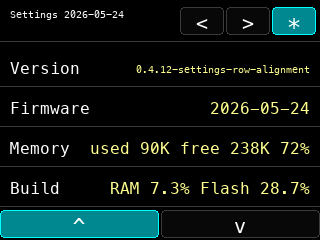
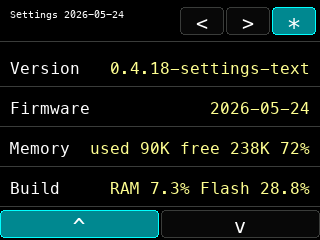
Enlarge landscape Settings fallback text 20260524-140900-EDT

Changed region(s): [[0.3438, 0.2625, 0.9688, 0.3208], [0.9062, 0.7583, 0.9375, 0.8167]]

diff --git a/tools/check_app_shell.py b/tools/check_app_shell.py
@@ -32,6 +32,13 @@ missing = [token for token in required_tokens if token not in source]
 if missing:
     raise SystemExit("Missing app shell tokens: " + ", ".join(missing))
 
+version_marker = '#define APP_VERSION "'
+version_start = source.index(version_marker) + len(version_marker)
+version_end = source.index('"', version_start)
+app_version = source[version_start:version_end]
+if len(app_version) > 25:
+    raise SystemExit("APP_VERSION is too wide for landscape Settings size-2 text")
+
 header_start = source.index("void drawHeader() {")
 header_end = source.index("void drawAppNavControls()", header_start)
 header_body = source[header_start:header_end]
@@ -61,6 +68,14 @@ if 'drawSettingsButton(settingsRotateX, rowY + 6, 86, "", false);' not in settin
     raise SystemExit("Settings rotation control should be icon-only")
 if '"ROT"' in settings_mock:
     raise SystemExit("Settings mock still renders ROT text instead of the rotation icon")
+if "bool settingsValueNeedsCompactText" not in source:
+    raise SystemExit("Settings value fit check should be shared before choosing tiny text")
+if "if (!portraitLayout && settingsValueNeedsCompactText(label, value))" not in source:
+    raise SystemExit("Landscape Settings rows should avoid tiny value text by using two-line text")
+if "return portraitLayout ? 1 : SETTINGS_TEXT_SIZE;" not in source:
+    raise SystemExit("The smallest Settings value text should be limited to vertical display rotation")
+if "value_w > width - 28 - label_w and width >= 300" not in settings_mock:
+    raise SystemExit("Settings mock should keep landscape fallback text larger")
 
 read_touch_start = source.index("void readTouchControls() {")
 read_touch_end = source.index("void mapTouchPoint", read_touch_start)

diff --git a/tools/render_settings_mock.py b/tools/render_settings_mock.py
@@ -76,10 +76,14 @@ def draw_row(draw, width, y, label, value, control=False):
         draw.text((10, y + 3), label, font=FONT_SETTINGS, fill=COLOR_TEXT)
         draw.text((10, y + 21), value, font=FONT_SETTINGS, fill=COLOR_SIGNAL_YELLOW)
     else:
-        draw.text((10, y + 12), label, font=FONT_SETTINGS, fill=COLOR_TEXT)
         label_w = draw.textbbox((0, 0), label, font=FONT_SETTINGS)[2]
         value_font = FONT_SETTINGS
         value_w = draw.textbbox((0, 0), value, font=value_font)[2]
+        if value_w > width - 28 - label_w and width >= 300:
+            draw.text((10, y + 3), label, font=FONT_SETTINGS, fill=COLOR_TEXT)
+            draw.text((10, y + 21), value, font=FONT_SETTINGS, fill=COLOR_SIGNAL_YELLOW)
+            return COLOR_BG
+        draw.text((10, y + 12), label, font=FONT_SETTINGS, fill=COLOR_TEXT)
         if value_w > width - 28 - label_w:
             value_font = FONT_1
             value_w = draw.textbbox((0, 0), value, font=value_font)[2]
@@ -123,10 +127,10 @@ def render(width, height, scroll_y, filename):
         ("LED Control", "beat pulse"),
         ("Color", "tap"),
         ("About", "PulseSensor CYD"),
-        ("Version", "0.4.12-settings-row-alignment"),
+        ("Version", "0.4.18-settings-text"),
         ("Firmware", "2026-05-24"),
         ("Memory", "used 90K free 238K 72%"),
-        ("Build", "RAM 7.3% Flash 28.7%"),
+        ("Build", "RAM 7.3% Flash 28.8%"),
     ]
 
     for index, (label, value) in enumerate(rows):

diff --git a/tools/render_monochrome_mock.py b/tools/render_monochrome_mock.py
@@ -227,10 +227,14 @@ def draw_row(draw, width, y, index, label, value):
         draw.text((10, y + 3), label, font=FONT_SETTINGS, fill=ink)
         draw.text((10, y + 21), value, font=FONT_SETTINGS, fill=ink)
     else:
-        draw.text((10, y + 12), label, font=FONT_SETTINGS, fill=ink)
         label_w = text_size(draw, label, FONT_SETTINGS)[0]
         value_font = FONT_SETTINGS
         value_w = text_size(draw, value, value_font)[0]
+        if value_w > width - 28 - label_w and width >= 300:
+            draw.text((10, y + 3), label, font=FONT_SETTINGS, fill=ink)
+            draw.text((10, y + 21), value, font=FONT_SETTINGS, fill=ink)
+            return bg
+        draw.text((10, y + 12), label, font=FONT_SETTINGS, fill=ink)
         if value_w > width - 28 - label_w:
             value_font = FONT_1
             value_w = text_size(draw, value, value_font)[0]
@@ -294,10 +298,10 @@ def render_settings(width, height, scroll_y, filename, mode_variant):
         ("LED Control", "beat pulse"),
         ("Color", "tap"),
         ("About", "PulseSensor CYD"),
-        ("Version", "0.4.12-settings-row-alignment"),
+        ("Version", "0.4.18-settings-text"),
         ("Firmware", "2026-05-24"),
         ("Memory", "used 90K free 238K 72%"),
-        ("Build", "RAM 7.3% Flash 28.7%"),
+        ("Build", "RAM 7.3% Flash 28.8%"),
     ]
 
     for index, (label, value) in enumerate(rows):

diff --git a/README.md b/README.md
@@ -50,7 +50,7 @@ This is the current good development pause point for the app shell branch:
 
 ```text
 Branch:   codex/app4-pin-scanner-perf-safe-20260524
-Firmware: 0.4.17-lock-hold-grace
+Firmware: 0.4.18-settings-text
 ```
 
 - Added a compact app shell around the Pulse dashboard: the screen order is Pulse dashboard, Settings, App 4 `Pin Scanner`, `Your App Here`, then `Origin Story` last.
@@ -60,6 +60,7 @@ Firmware: 0.4.17-lock-hold-grace
 - Changed the compact `SIG GPIO35` bars into a 12-step acquisition ladder, so users get more gradual feedback while finding a usable signal before BPM/IBI are trusted. The acquisition harmony now has an 8-note rising palette.
 - Matched the live waveform line color to the `SIG GPIO35` panel state color, so the graph and SIG box both show yellow while acquiring and change together after lock.
 - Added balanced lock-retention grace: acquisition still needs four consecutive qualified beats, but once locked the dashboard tolerates brief movement/noise blips before clearing BPM/IBI.
+- Made long Settings values easier to read in horizontal display rotation by keeping them at the normal Settings text size on a second line; the tiny fallback remains available only for vertical rotation.
 - Added Settings-only controls for Volume, icon-only Rotation, Display, WiFi/Bluetooth placeholders, LED Control, LED swatches, About, Version, Firmware date, runtime memory used/free, and build memory.
 - Added four display modes under Settings `Display`: `M DARK`, `M LIGHT`, `C DARK`, and `C LIGHT`.
 - Bumped Settings row text back up one size. Plain data rows keep the label left-justified and the value right-justified, while rows with right-side controls keep a second value line only to avoid overlap. The Memory row shows used heap plus free heap by size and percentage, and the Build row shows PlatformIO RAM/Flash usage.

diff --git a/CHANGELOG.md b/CHANGELOG.md
@@ -1,6 +1,7 @@
 # CYD App Launcher — Student Version — Changelog
 
 ## Unreleased
+- 2026-05-24 Settings landscape small-text pass: kept the tiny Settings value fallback only for vertical/portrait display rotation, and changed horizontal Settings rows that would have shrunk to tiny text into larger two-line label/value rows; firmware version is `0.4.18-settings-text`.
 - 2026-05-24 lock-retention grace pass: added rollback branch/tag `backup/pre-lock-hold-grace-20260524`, kept strict four-qualified-beat acquisition and existing beat qualification thresholds, but made already-locked signal state tolerate up to two unqualified beat events within a 2200 ms grace window before dropping lock; expanded serial telemetry with live range, clipping score, qualified/unqualified streaks, and drop reason for long-run hardware sanity checks; firmware version is `0.4.17-lock-hold-grace`.
 - 2026-05-24 matched waveform/SIG color pass: changed the live waveform to use the same acquisition/lock color function as the `SIG GPIO35` panel, so the graph line is yellow while acquiring and switches to the same locked color as the SIG box after signal lock; added a guard check to keep future UI work from reintroducing a separate waveform acquisition palette; firmware version is `0.4.16-matched-sig-wave`.
 - 2026-05-24 signal-acquisition ladder pass: changed the compact `SIG GPIO35` bars from four coarse `0/3/6/9/12` jumps into a continuous 12-step acquisition score based on live range, amplitude, clipping cleanliness, detector beat-window state, and qualified-beat streak, while keeping BPM/IBI lock strict; expanded the acquisition harmony to an 8-note, 4-step rising phrase; firmware version is `0.4.15-acquisition-ladder`.
